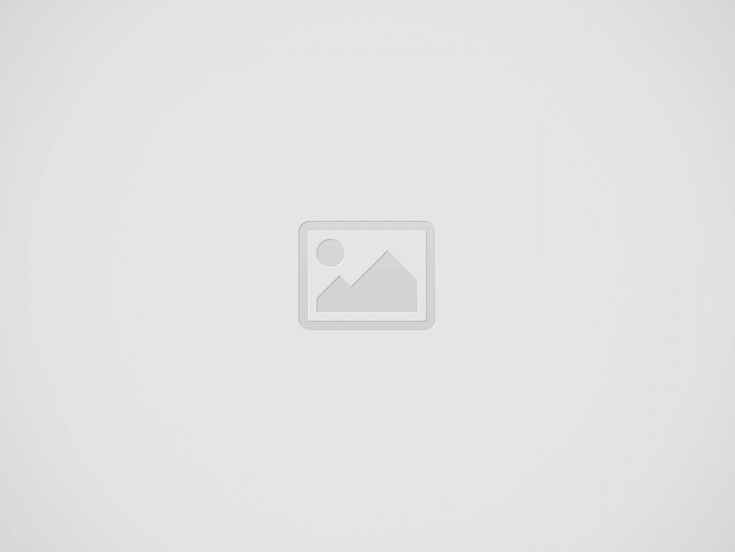
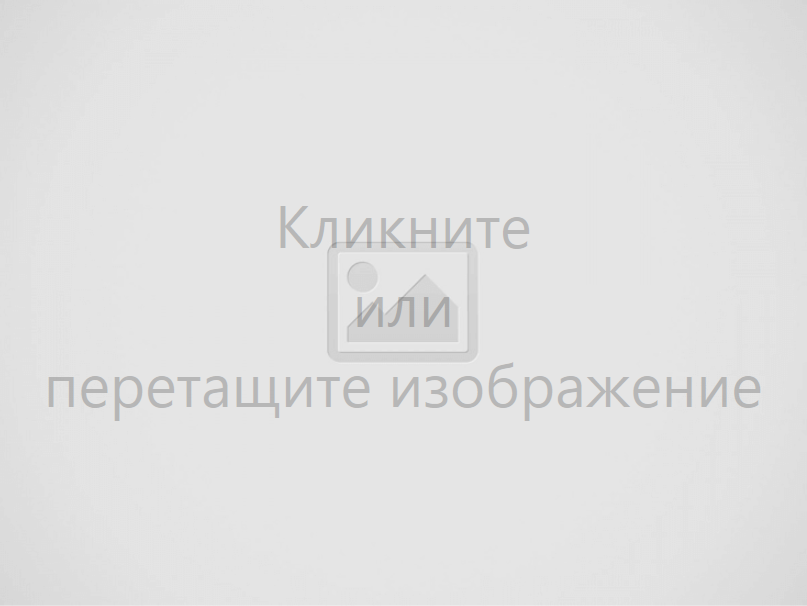
Deleted text about drop (default image modified)

Changed region(s): [[0.0599, 0.5851, 0.9578, 0.7083], [0.3293, 0.3388, 0.6585, 0.4312], [0.419, 0.4928, 0.5687, 0.5543]]

diff --git a/KnittingAssistant/View/userControls/ImageArea.xaml b/KnittingAssistant/View/userControls/ImageArea.xaml
@@ -42,19 +42,6 @@
                 </i:EventTrigger>
             </i:Interaction.Triggers>
         </Image>
-        <TextBlock Margin="10" HorizontalAlignment="Center" VerticalAlignment="Center" TextAlignment="Center"
-                   FontSize="60" Opacity="0.2" Visibility="{Binding DropInfoVis}" AllowDrop="True" Cursor="Hand"
-                   ToolTip="{Binding ImageToolTip}">
-                <i:Interaction.Triggers>
-                    <i:EventTrigger EventName="PreviewMouseLeftButtonDown">
-                        <i:InvokeCommandAction Command="{Binding ClickOnMainImageCommand}"/>
-                    </i:EventTrigger>
-                    <i:EventTrigger EventName="PreviewDrop">
-                        <i:CallMethodAction MethodName="LoadMainImageByDropCommand" TargetObject="{Binding}"/>
-                    </i:EventTrigger>
-                </i:Interaction.Triggers>
-            Кликните<LineBreak />или<LineBreak />перетащите изображение
-        </TextBlock>
         <Grid Visibility="{Binding ImageSwitchingVisibility}">
             <Grid.ColumnDefinitions>
                 <ColumnDefinition Width="0.15*"/>
